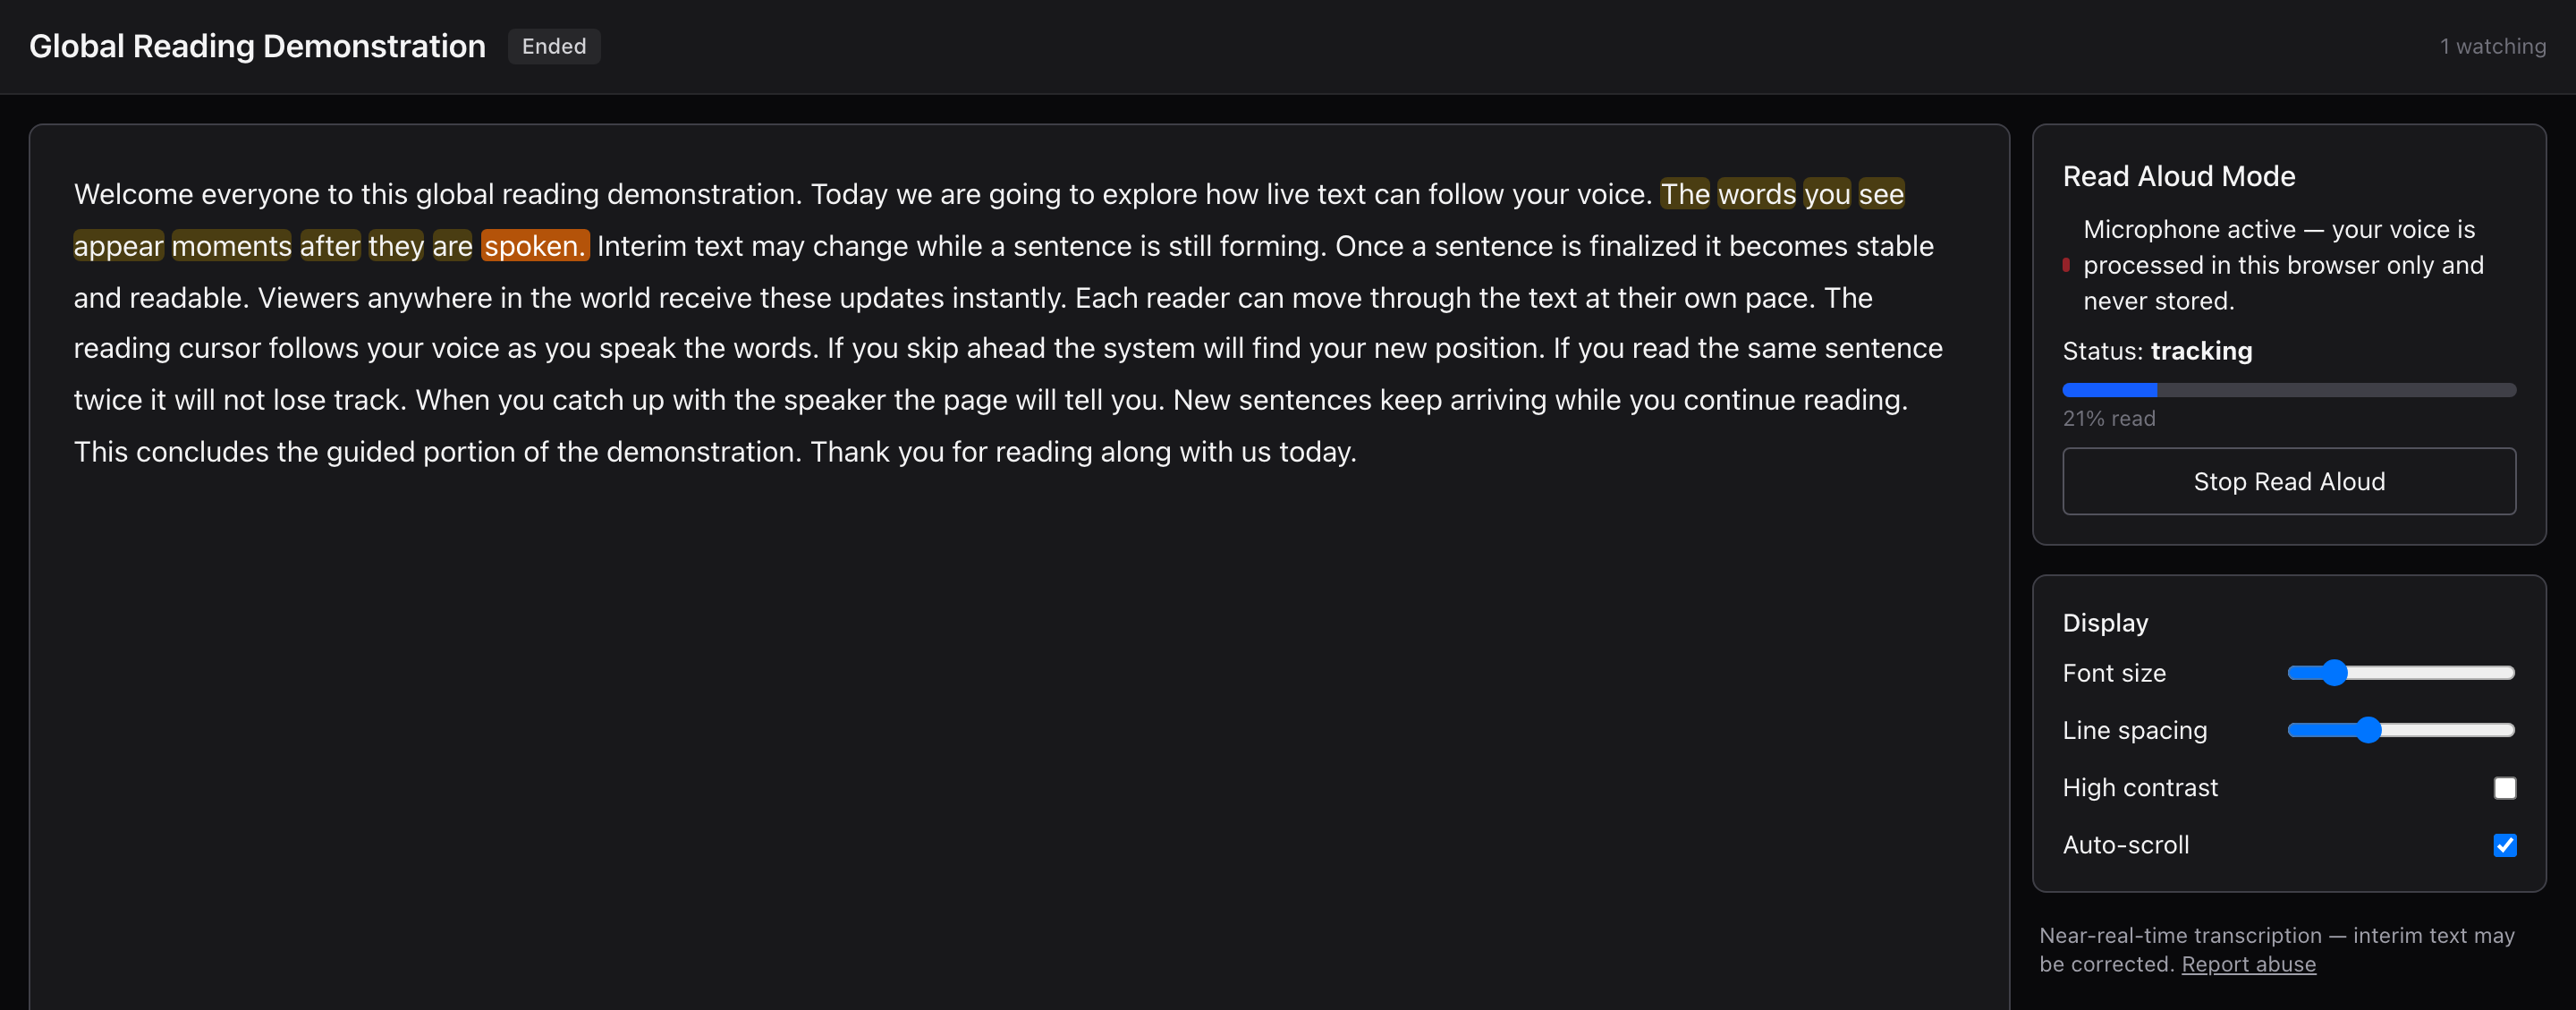
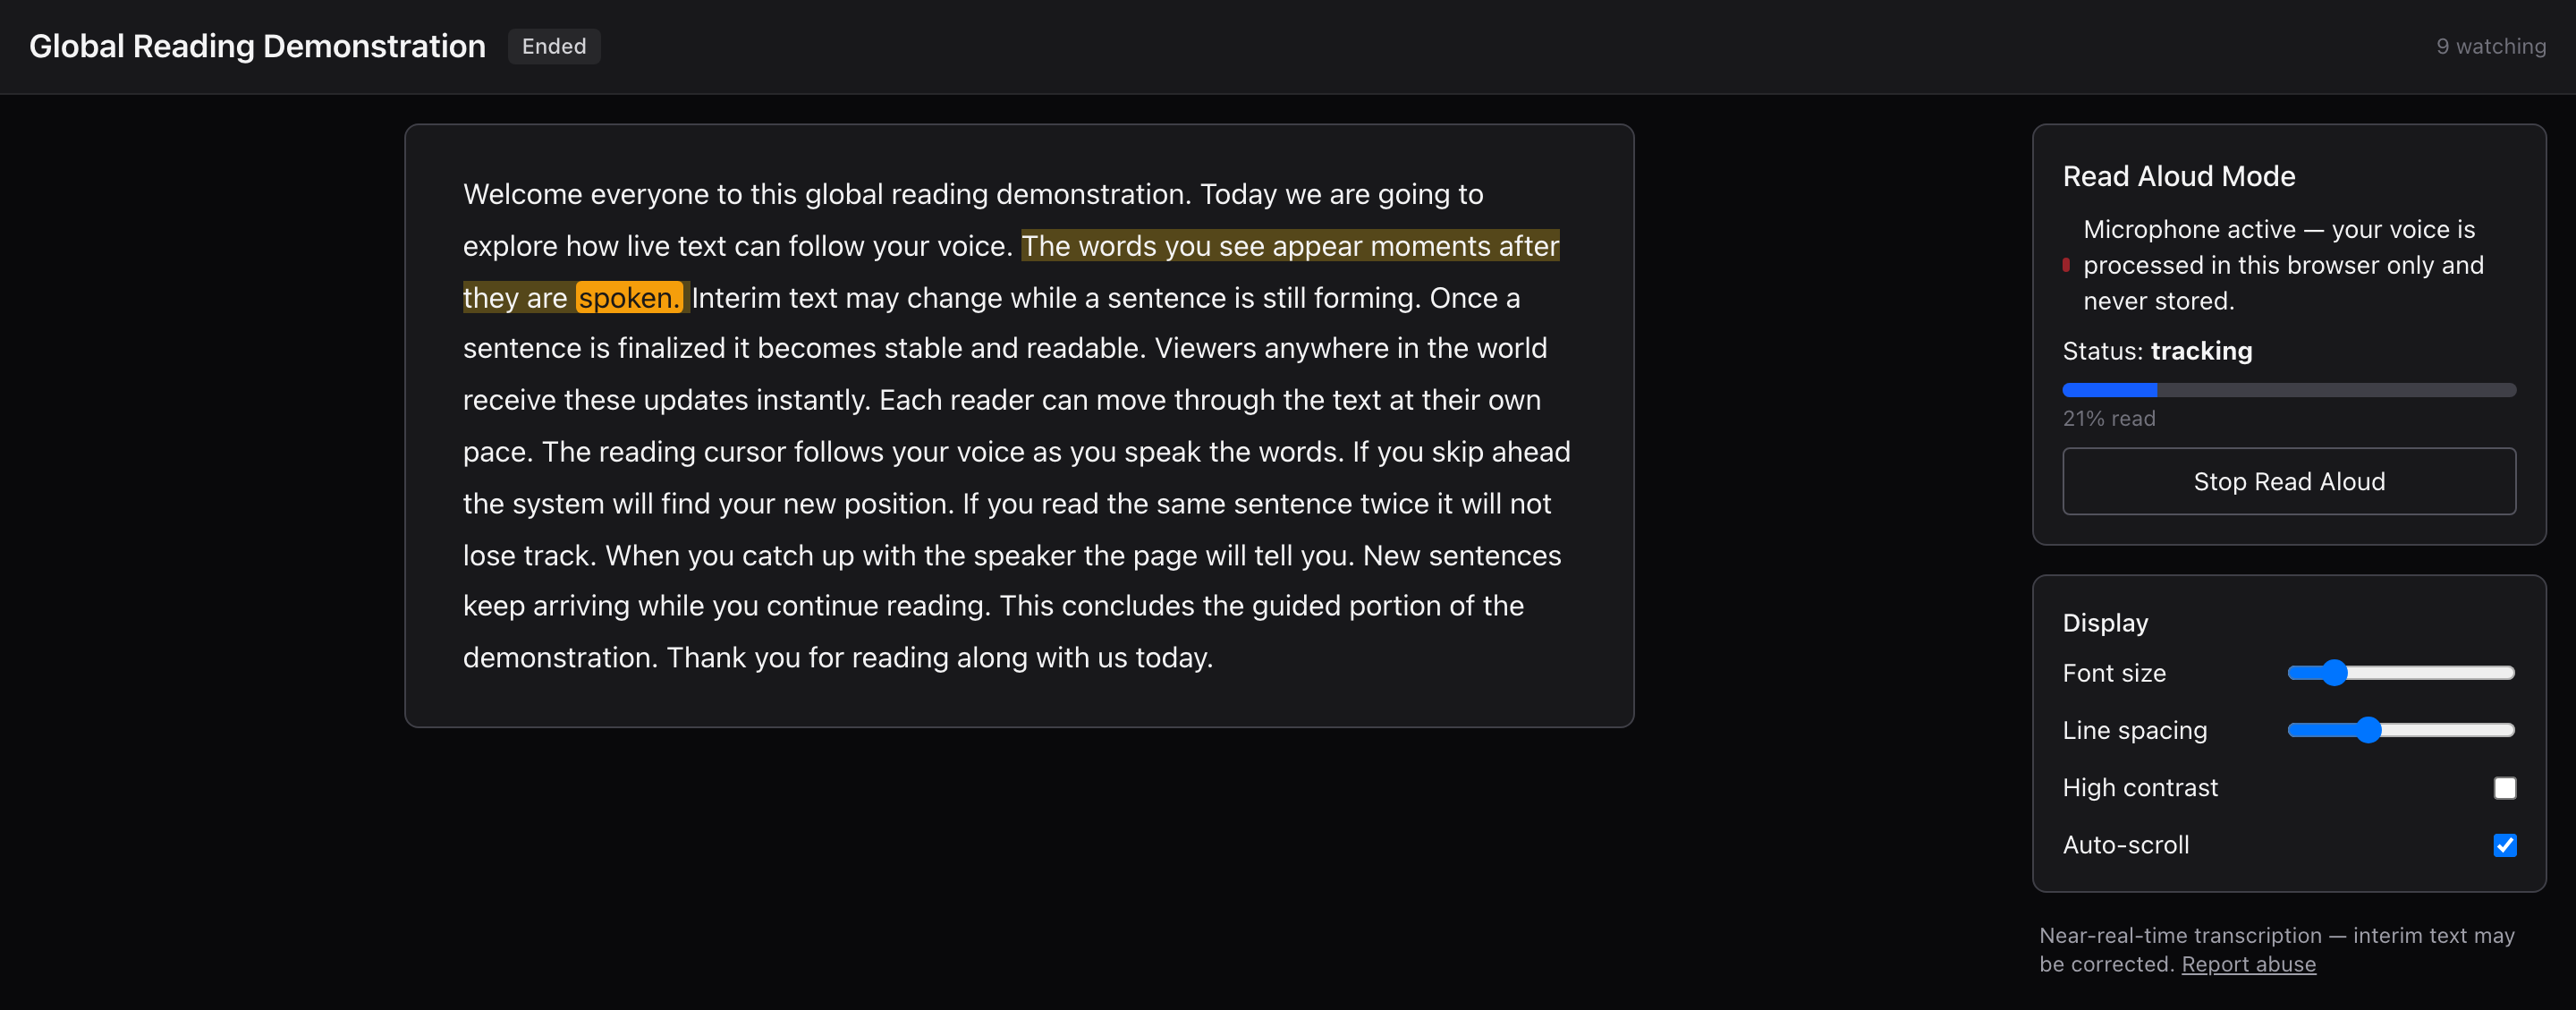
UI pass on the reading surface, from measured defects
Researched sustained-reading typography (Butterick, Tailwind prose, WCAG
1.4.11/1.4.12, Microsoft Immersive Reader, teleprompter and lyric-sync
practice) and measured the running app rather than eyeballing it. Four real
defects, each verified before and after in the browser:

1. Line length was 87 characters on desktop and 30 on mobile; the comfortable
   band is 45-75 (Dyson & Haselgrove found 55 cpl measurably better for
   comprehension when reading aloud, with no speed penalty). The reading
   surface is now capped at 62ch and centred — measured 64 cpl. On a 375px
   phone 45 cpl is unreachable at an accessible font size, so mobile sits at
   32; that is a device limit, not something a stylesheet fixes.

2. The active-sentence band was painted on the word span, leaving the spaces
   between words outside it — so the "sentence" rendered as disconnected
   blocks. Moved to the wrapper that includes the trailing space, with
   box-decoration-break: clone for wrapped lines, and dropped the per-span
   radius that scalloped the joins. Measured max gap: 0px.

3. The highlight failed WCAG 1.4.11 Non-text Contrast. The reading cursor is a
   graphical object required to understand the content, but axe only checks
   text against its own background and never objected: the band scored 1.66:1
   in dark mode and the word 2.15:1 in light. Reworked as Immersive Reader
   style dual highlighting — a quiet band for context, a strong colour for the
[…]

diff --git a/apps/web/e2e/accessibility.spec.ts b/apps/web/e2e/accessibility.spec.ts
@@ -53,3 +53,122 @@ test("live viewer page has no serious axe violations", async ({
   await expectNoSeriousViolations(results, "viewer page");
   await viewer.context().close();
 });
+
+/**
+ * Reading-surface checks that axe does NOT perform.
+ *
+ * axe evaluates text contrast against the element's own background, so it was
+ * blind to the reading highlight being a *graphical object* under WCAG 1.4.11
+ * Non-text Contrast. The sentence band shipped at 1.66:1 against the page in
+ * dark mode and no automated check objected. These assertions close that gap.
+ *
+ * Colours are resolved through a canvas because Tailwind 4 emits `oklch()`,
+ * which a naive numeric scrape of the computed style misreads as rgb.
+ */
+test("reading highlight meets non-text contrast and the measure stays readable", async ({
+  page,
+  browser,
+}) => {
+  const { viewerUrl } = await startLiveSession(page, "Contrast Check");
+  const viewer = await openViewer(browser, viewerUrl);
+  await viewer.waitForSelector("[data-word-index]", { timeout: 30_000 });
+  await viewer.setViewportSize({ width: 1440, height: 900 });
+
+  const report = await viewer.evaluate(() => {
+    const cv = document.createElement("canvas");
+    cv.width = cv.height = 1;
+    const ctx = cv.getContext("2d", { willReadFrequently: true })!;
+    const toRGB = (css: string): [number, number, number] => {
+      ctx.clearRect(0, 0, 1, 1);
+      ctx.fillStyle = "#000";
+      ctx.fillStyle = css;
+      ctx.fillRect(0, 0, 1, 1);
+      const d = ctx.getImageData(0, 0, 1, 1).data;
+      return [d[0]!, d[1]!, d[2]!];
+    };
+    const chan = (v: number) => {
+      const s = v / 255;
+      return s <= 0.03928 ? s / 12.92 : Math.pow((s + 0.055) / 1.055, 2.4);
+    };
+    const lum = ([r, g, b]: [number, number, number]) =>
+      0.2126 * chan(r) + 0.7152 * chan(g) + 0.0722 * chan(b);
+    const ratio = (
+      a: [number, number, number],
+      b: [number, number, number],
+    ) => {
+      const [x, y] = [lum(a), lum(b)];
+      const [hi, lo] = x > y ? [x, y] : [y, x];
+      return (hi + 0.05) / (lo + 0.05);
+    };
+
+    const card = document.querySelector<HTMLElement>(
+      '[data-testid="transcript-view"]',
+    )!;
+    // nearest ancestor with a real background
+    let bgEl: HTMLElement | null = card;
+    let pageBg: [number, number, number] = [255, 255, 255];
+    while (bgEl) {
+      const c = getComputedStyle(bgEl).backgroundColor;
+      if (c && !/rgba\(0, 0, 0, 0\)|transparent/.test(c)) {
+        pageBg = toRGB(c);
+        break;
+      }
+      bgEl = bgEl.parentElement;
+    }
+
+    const probeClass = (cls: string) => {
+      const el = document.createElement("span");
+      el.className = cls;
+      el.textContent = "x";
+      card.appendChild(el);
+      const cs = getComputedStyle(el);
+      const out = {
+        bg: toRGB(cs.backgroundColor),
+        fg: toRGB(cs.color),
+      };
+      el.remove();
+      return out;
+    };
+    const word = probeClass("word-active");
+
+    // characters per line on the reading column
+    const sample = document.querySelector<HTMLElement>("[data-word-index]")!;
+    const cs = getComputedStyle(sample);
+    const probe = document.createElement("span");
+    probe.style.cssText = "position:absolute;visibility:hidden;white-space:pre";
+    probe.style.font = cs.font;
+    probe.textContent = "0".repeat(100);
+    document.body.appendChild(probe);
+    const chW = probe.getBoundingClientRect().width / 100;
+    probe.remove();
+    const inner = card.clientWidth - 64; // sm:px-8
+
+    return {
+      wordVsPage: ratio(word.bg, pageBg),
+      textOnWord: ratio(word.fg, word.bg),
+      charsPerLine: Math.round(inner / chW),
+    };
+  });
+
+  // WCAG 1.4.11: the reading cursor is required to understand the content
+  expect(
+    report.wordVsPage,
+    "active-word highlight vs page background",
+  ).toBeGreaterThanOrEqual(3);
+  // WCAG 1.4.3: the word's own text sits on the highlight, not the page
+  expect(
+    report.textOnWord,
+    "text on the active-word highlight",
+  ).toBeGreaterThanOrEqual(4.5);
+  // Butterick / Tailwind prose: keep the measure in the comfortable band
+  expect(
+    report.charsPerLine,
+    "characters per line on desktop",
+  ).toBeLessThanOrEqual(75);
+  expect(
+    report.charsPerLine,
+    "characters per line on desktop",
+  ).toBeGreaterThanOrEqual(45);
+
+  await viewer.context().close();
+});

diff --git a/apps/web/src/app/globals.css b/apps/web/src/app/globals.css
@@ -1,14 +1,35 @@
 @import "tailwindcss";
 
+/**
+ * Reading surface tokens.
+ *
+ * Dual highlighting (the pattern Microsoft Immersive Reader uses): a soft band
+ * marks the sentence being read, a stronger colour marks the exact word. The
+ * band stays quiet on purpose — a band loud enough to hit 3:1 against the page
+ * is fatiguing across minutes of continuous reading, which is the actual use
+ * case here. The ACTIVE WORD is the cursor, so that is what carries the
+ * contrast obligation, and the active sentence additionally gets a non-colour
+ * cue (a left rail) so it is never identified by colour alone.
+ *
+ * Measured on this build (canvas-resolved sRGB, WCAG 2.x formula):
+ *   word vs page   3.53 dark / 4.900 light   (WCAG 1.4.11 non-text ≥ 3)
+ *   text on word   5.02 dark / 8.590 light   (WCAG 1.4.3 ≥ 4.5)
+ *   text on band   9.71 dark / 15.60 light   (WCAG 1.4.3 ≥ 4.5)
+ */
 :root {
   --reading-highlight: #fef08a;
-  --reading-word: #f59e0b;
+  --reading-word: #b45309;
+  --reading-word-text: #ffffff;
+  /* Butterick / Tailwind prose: ~55-65 characters per line. `ch` is
+     font-relative, so the measure holds as the reader scales the type. */
+  --reading-measure: 62ch;
 }
 
 @media (prefers-color-scheme: dark) {
   :root {
-    --reading-highlight: #4a3d12;
-    --reading-word: #b45309;
+    --reading-highlight: #55471a;
+    --reading-word: #f59e0b;
+    --reading-word-text: #1c1917;
   }
 }
 
@@ -26,15 +47,52 @@ html {
   }
 }
 
+/**
+ * The sentence band sits on the wrapper that INCLUDES each trailing space, so
+ * it renders as one continuous band. With the band on the word span the spaces
+ * fell outside it and the active sentence looked like disconnected blocks.
+ * `box-decoration-break: clone` keeps it intact when a sentence wraps lines.
+ */
 .sentence-active {
   background-color: var(--reading-highlight);
-  border-radius: 0.25rem;
+  /* No radius: the band is painted per word-wrapper, and rounding every span
+     scallops the edge where they butt together. Flat keeps it one band. */
+  -webkit-box-decoration-break: clone;
+  box-decoration-break: clone;
 }
 
 .word-active {
   background-color: var(--reading-word);
-  color: white;
+  color: var(--reading-word-text);
   border-radius: 0.2rem;
+  padding: 0 0.12em;
+  -webkit-box-decoration-break: clone;
+  box-decoration-break: clone;
+}
+
+/**
+ * The reading surface is sized to the measure itself (plus its padding) and
+ * centred, so the "paper" hugs the text instead of being a wide, mostly-empty
+ * card. `ch` is font-relative, so this tracks the reader's font-size setting.
+ */
+.reading-surface {
+  width: 100%;
+  max-width: calc(var(--reading-measure) + 4rem);
+  margin-inline: auto;
+}
+
+/* The highlight advances every few hundred ms — keep the transition subtle
+   and drop it entirely for users who ask for reduced motion. */
+.word-active,
+.sentence-active {
+  transition: background-color 90ms linear;
+}
+
+@media (prefers-reduced-motion: reduce) {
+  .word-active,
+  .sentence-active {
+    transition: none;
+  }
 }
 
 /* visible focus for keyboard users */

diff --git a/apps/web/src/components/TranscriptView.tsx b/apps/web/src/components/TranscriptView.tsx
@@ -45,18 +45,19 @@ const SegmentText = memo(function SegmentText({
         const isActiveSentence =
           readAloudActive && t.sentenceIndex === activeSentenceIndex;
         return (
-          <span key={t.wordIndex}>
+          // The sentence highlight lives on the OUTER span so it covers the
+          // trailing space too. With it on the word span, the space fell
+          // outside the background and the active sentence rendered as
+          // disconnected blocks instead of one continuous band.
+          <span
+            key={t.wordIndex}
+            className={isActiveSentence ? "sentence-active" : undefined}
+          >
             <span
               data-word-index={t.wordIndex}
               data-sentence-index={t.sentenceIndex}
               data-active-word={isActiveWord || undefined}
-              className={
-                isActiveWord
-                  ? "word-active px-0.5"
-                  : isActiveSentence
-                    ? "sentence-active"
-                    : undefined
-              }
+              className={isActiveWord ? "word-active" : undefined}
               onClick={
                 onManualJump ? () => onManualJump(t.wordIndex) : undefined
               }
@@ -158,9 +159,12 @@ export function TranscriptView({
 
   return (
     <div className="relative h-full">
+      {/* max-h-full rather than h-full: a short transcript sizes the card to its
+          content instead of leaving a tall empty box, while a long one still
+          fills the available space and scrolls. */}
       <div
         ref={containerRef}
-        className={`h-full overflow-y-auto rounded-lg border p-6 ${
+        className={`reading-surface max-h-full overflow-y-auto rounded-lg border px-4 py-6 sm:px-8 ${
           highContrast
             ? "border-black bg-white text-black dark:border-white dark:bg-black dark:text-white"
             : "border-zinc-200 bg-white text-zinc-900 dark:border-zinc-700 dark:bg-zinc-900 dark:text-zinc-100"

diff --git a/apps/web/src/app/s/[shareId]/page.tsx b/apps/web/src/app/s/[shareId]/page.tsx
@@ -173,8 +173,11 @@ export default function ViewerPage({
         </div>
       )}
 
-      <main className="flex min-h-0 flex-1 flex-col gap-3 p-4 md:flex-row">
-        <div className="min-h-0 flex-1">
+      <main className="flex min-h-0 flex-1 flex-col gap-3 p-3 sm:p-4 md:flex-row">
+        {/* On a phone the stacked control panel was taking two thirds of the
+            screen, leaving the reading surface ~270px of 812. Give reading a
+            floor of 58% of the viewport; the controls sit a scroll below. */}
+        <div className="min-h-[58svh] flex-1 md:min-h-0">
           <TranscriptView
             finalSegments={store.finalSegments}
             interimSegments={completed ? [] : store.interimSegments}